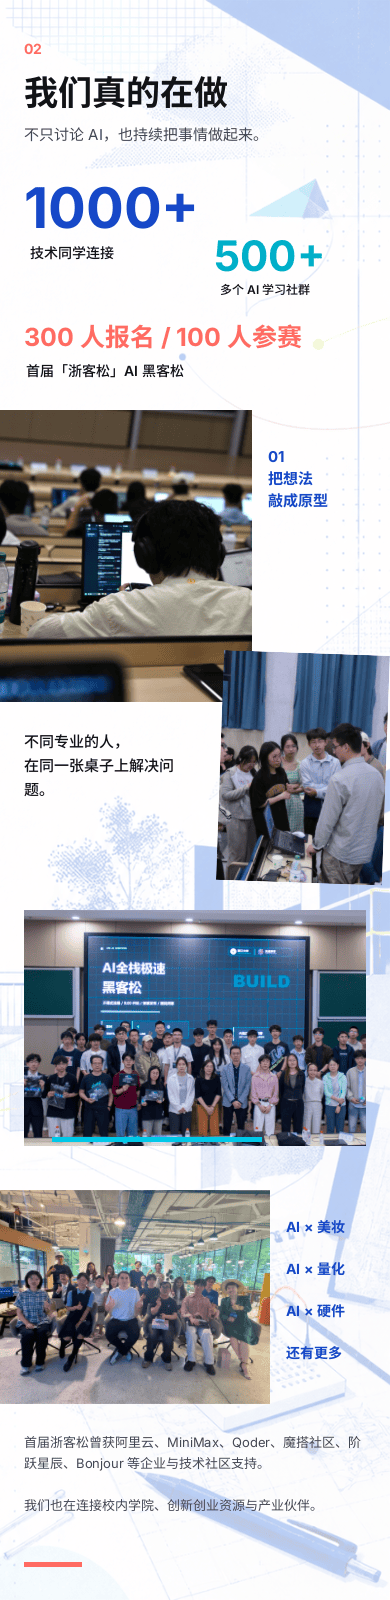
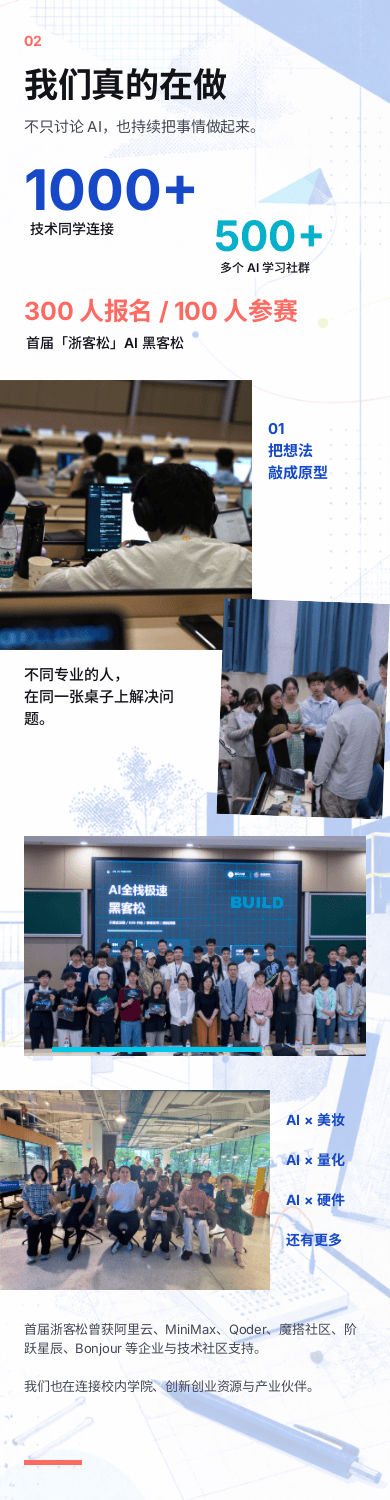
Add density-first WeChat layout workflow

diff --git a/scripts/workflow_quality.py b/scripts/workflow_quality.py
@@ -21,8 +21,31 @@ REQUIRED_VISUAL_CHECKS = {
     "editorial_rhythm",
     "mobile_legibility",
     "open_composition",
+    "information_density",
+    "background_family_coherence",
 }
 REQUIRED_SCREENSHOT_ROLES = {"hero", "chapter", "evidence", "complex-section", "cta"}
+ALLOWED_DENSITY_MODES = {"compact-editorial", "standard", "spacious-feature"}
+DENSITY_BANDS = {
+    "compact-editorial": {
+        "body_font_px": (15.0, 17.0),
+        "body_line_height_ratio": (1.45, 1.62),
+        "letter_spacing_px": (-0.2, 0.0),
+        "paragraph_gap_px": (8.0, 14.0),
+    },
+    "standard": {
+        "body_font_px": (15.0, 17.0),
+        "body_line_height_ratio": (1.50, 1.68),
+        "letter_spacing_px": (-0.1, 0.0),
+        "paragraph_gap_px": (10.0, 16.0),
+    },
+    "spacious-feature": {
+        "body_font_px": (16.0, 18.0),
+        "body_line_height_ratio": (1.55, 1.72),
+        "letter_spacing_px": (0.0, 0.1),
+        "paragraph_gap_px": (12.0, 20.0),
+    },
+}
 ALLOWED_COMPOSITION_ROLES = {"anchor", "motion", "connector", "punctuation"}
 GENERIC_VISUAL_SUBJECTS = {
     "ai",
@@ -172,6 +195,53 @@ def validate_visual_review(
                 errors.append(f"visual review screenshot is missing: {location}")
     if len(node_ids) < 5:
         errors.append("visual review requires at least 5 distinct Ardot node screenshots")
+    density = review.get("density")
+    if not isinstance(density, dict):
+        density = {}
+        errors.append("visual review density must be an object")
+    density_mode = density.get("mode")
+    if density_mode not in ALLOWED_DENSITY_MODES:
+        errors.append("visual review density.mode is invalid")
+        density_mode = "compact-editorial"
+    samples = density.get("samples")
+    sample_items = [item for item in samples if isinstance(item, dict)] if isinstance(samples, list) else []
+    density_node_ids: set[str] = set()
+    band = DENSITY_BANDS[density_mode]
+    for index, sample in enumerate(sample_items):
+        node_id = sample.get("node_id")
+        if not isinstance(node_id, str) or node_id not in node_ids:
+            errors.append(f"density sample {index} must reference a screenshot node_id")
+        else:
+            density_node_ids.add(node_id)
+        for metric, (minimum, maximum) in band.items():
+            value = sample.get(metric)
+            if not isinstance(value, (int, float)) or isinstance(value, bool):
+                errors.append(f"density sample {index} requires numeric {metric}")
+            elif not minimum <= float(value) <= maximum:
+                errors.append(
+                    f"density sample {index} {metric} must be between {minimum} and {maximum} for {density_mode}"
+                )
+        intentional = sample.get("intentional_whitespace") is True
+        occupancy = sample.get("content_occupancy_ratio")
+        occupancy_minimum = 0.45 if intentional else 0.68
+        if not isinstance(occupancy, (int, float)) or isinstance(occupancy, bool):
+            errors.append(f"density sample {index} requires numeric content_occupancy_ratio")
+        elif not occupancy_minimum <= float(occupancy) <= 0.90:
+            errors.append(
+                f"density sample {index} content_occupancy_ratio must be between {occupancy_minimum} and 0.9"
+            )
+        largest_empty = sample.get("largest_empty_region_ratio")
+        empty_maximum = 0.40 if intentional else 0.20
+        if not isinstance(largest_empty, (int, float)) or isinstance(largest_empty, bool):
+            errors.append(f"density sample {index} requires numeric largest_empty_region_ratio")
+        elif not 0 <= float(largest_empty) <= empty_maximum:
+            errors.append(
+                f"density sample {index} largest_empty_region_ratio must be at most {empty_maximum}"
+            )
+        if intentional and not sample.get("intentional_whitespace_reason"):
+            errors.append(f"density sample {index} intentional whitespace requires a reason")
+    if len(density_node_ids) < 5:
+        errors.append("visual review requires density samples for at least 5 distinct screenshot nodes")
     checks = review.get("checks")
     if not isinstance(checks, dict):
         checks = {}
@@ -189,6 +259,8 @@ def validate_visual_review(
         "screenshot_count": len(screenshot_items),
         "screenshot_roles": sorted(role for role in roles if role),
         "node_count": len(node_ids),
+        "density_mode": density_mode,
+        "density_sample_count": len(sample_items),
         "passed_checks": sorted(
             check for check in REQUIRED_VISUAL_CHECKS if checks.get(check) == "pass"
         ),

diff --git a/tests/test_workflow.py b/tests/test_workflow.py
@@ -177,6 +177,35 @@ class CompilerTests(unittest.TestCase):
             self.assertFalse((temp_path / "output" / "wechat.html").exists())
             self.assertIsNone(report["outputs"]["wechat"])
 
+    def test_low_information_density_blocks_final_check(self) -> None:
+        org_id = "zju-ocean-robot-association"
+        source = json.loads(
+            (ROOT / "examples" / "ocean-recruitment.json").read_text(encoding="utf-8")
+        )
+        review = json.loads(
+            (ROOT / "examples" / "ocean-recruitment-visual-review.json").read_text(encoding="utf-8")
+        )
+        review["density"]["samples"][1]["body_line_height_ratio"] = 1.82
+        review["density"]["samples"][1]["content_occupancy_ratio"] = 0.51
+        review["density"]["samples"][1]["largest_empty_region_ratio"] = 0.31
+        with tempfile.TemporaryDirectory() as temp:
+            temp_path = Path(temp)
+            spec = temp_path / "article.json"
+            review_path = temp_path / "visual-review.json"
+            source["visual_review_file"] = str(review_path)
+            spec.write_text(json.dumps(source, ensure_ascii=False), encoding="utf-8")
+            review_path.write_text(json.dumps(review, ensure_ascii=False), encoding="utf-8")
+            report = compile_article(
+                spec,
+                ROOT / "organizations" / org_id,
+                temp_path / "output",
+                check=True,
+            )
+            self.assertFalse(report["ok"])
+            self.assertTrue(any("body_line_height_ratio" in error for error in report["errors"]))
+            self.assertTrue(any("content_occupancy_ratio" in error for error in report["errors"]))
+            self.assertTrue(any("largest_empty_region_ratio" in error for error in report["errors"]))
+
     def test_metric_without_source_fails_final_check(self) -> None:
         org_id = "zju-ocean-robot-association"
         article = {
@@ -300,6 +329,18 @@ class ArdotManifestTests(unittest.TestCase):
         self.assertGreaterEqual(storyboard["composition_count"], 3)
         self.assertGreaterEqual(len(directions["directions"]), 2)
         self.assertTrue(directions["full_article_allowed"])
+
+    def test_storyboard_requires_density_intent_for_every_chapter(self) -> None:
+        source = json.loads(
+            (ROOT / "examples" / "ocean-recruitment.json").read_text(encoding="utf-8")
+        )
+        source["storyboard"]["chapters"][2].pop("density_intent")
+        with tempfile.TemporaryDirectory() as temp:
+            article = Path(temp) / "article.json"
+            article.write_text(json.dumps(source, ensure_ascii=False), encoding="utf-8")
+            storyboard = build_storyboard_plan(article)
+            self.assertFalse(storyboard["ready_for_visual_kit"])
+            self.assertTrue(any("density_intent" in item for item in storyboard["errors"]))
 
     def test_provisional_org_is_blocked_before_full_article(self) -> None:
         with tempfile.TemporaryDirectory() as temp:

diff --git a/scripts/orgs.py b/scripts/orgs.py
@@ -46,6 +46,7 @@ VISUAL_KIT_ROLES = {
     "inline-explainer",
     "closing-motif",
 }
+DENSITY_MODES = {"compact-editorial", "standard", "spacious-feature"}
 
 
 def read_json(path: Path) -> Any:
@@ -211,6 +212,18 @@ def validate_pack(pack_dir: Path) -> dict[str, Any]:
                 errors.append(f"approved visual calibration benchmark requires {field}")
         if not approved_routes:
             errors.append("approved visual calibration requires at least one approved route")
+        if calibration.get("density_mode") not in DENSITY_MODES:
+            errors.append("approved visual calibration requires a valid density_mode")
+        background_family = calibration.get("background_family")
+        if background_family is not None:
+            background_family = require_dict(
+                background_family,
+                "organization.visual.calibration.background_family",
+                errors,
+            )
+            for field in ("id", "strategy"):
+                if not isinstance(background_family.get(field), str) or not background_family.get(field, "").strip():
+                    errors.append(f"approved visual calibration background_family requires {field}")
     elif org.get("status") == "confirmed":
         warnings.append("confirmed organization lacks approved visual calibration; full article production is blocked")
 
@@ -441,6 +454,7 @@ def scaffold(org_id: str, name: str) -> dict[str, Any]:
         }],
         "calibration": {
             "status": "not-started", "approved_routes": [], "benchmark": None,
+            "density_mode": "compact-editorial", "background_family": None,
             "reviewed_at": None, "review_basis": [],
         },
     }

diff --git a/scripts/build_storyboard.py b/scripts/build_storyboard.py
@@ -37,7 +37,7 @@ def build_storyboard_plan(article_path: Path) -> dict[str, Any]:
             errors.append(f"duplicate storyboard chapter id: {chapter_id}")
         else:
             chapter_ids.add(chapter_id)
-        for field in ("label", "thesis", "composition", "visual_intent"):
+        for field in ("label", "thesis", "composition", "visual_intent", "density_intent"):
             if not isinstance(chapter.get(field), str) or not chapter.get(field, "").strip():
                 errors.append(f"storyboard chapter {chapter_id or index} requires {field}")
         composition = chapter.get("composition")

diff --git a/references/information-density.md b/references/information-density.md
@@ -1,0 +1,44 @@
+# 公众号信息密度与连贯底图
+
+信息密度不是“多塞文字”，而是让正文、图片、小组件和留白在手机纵向空间内持续发生关系。先压缩无意义间隔，再决定是否删字；不要用卡片、边框或浅色块填空。
+
+## 密度模式
+
+| 模式 | 适用场景 | 正文字号 | 正文行高 | 中文字距 | 段距 | 章内主间隔 |
+|---|---|---:|---:|---:|---:|---:|
+| `compact-editorial` | 招新、活动、教程、信息型长文；默认 | 15–17 px | 1.45–1.62 | -0.2–0 px | 8–14 px | 24–40 px |
+| `standard` | 品牌故事、人物、项目展示 | 15–17 px | 1.50–1.68 | -0.1–0 px | 10–16 px | 28–48 px |
+| `spacious-feature` | Hero、章节转场、结尾；不能作为整篇默认 | 16–18 px | 1.55–1.72 | 0–0.1 px | 12–20 px | 40–64 px |
+
+标题行高通常为 1.05–1.20，短标签为 1.25–1.45。中文标题可以使用 -0.4–0 px 字距。若组织字体本身较宽，优先收紧字距和区块间隔，不把正文字号压到 15 px 以下。
+
+## 390 px 纵向占用
+
+- 普通正文、列表、角色和步骤区：有效内容占本区高度 68%–90%。
+- 最大无意空洞不超过本区高度 20%。Hero、全宽转场和结尾的有意留白必须在 `density_intent` 中声明。
+- 图片与说明间隔 8–16 px；连续列表项中心间距通常 72–104 px。
+- 章节上/下呼吸区通常 28–56 px。若一屏只出现一个短句，必须由主图、路径或转场承担视觉信息。
+- 收紧顺序：先删重复空白，再压主间隔和段距，再调行高与字距，最后才改字号或删正文。
+
+## AI 连贯底图
+
+1. 在组织视觉校准阶段生成一张 master 底图和 1–3 张 companion 变体，登记统一 family ID、提示词摘要、色彩、材质、光线和禁用项。
+2. 伴生图必须继承同一空间逻辑、笔触和调色，不只是“颜色差不多”。文章中通过裁切、透明度、局部放大和前后景关系制造变化。
+3. 裸底图和叠字小样都要审核。正文区域保持纯色或近纯色复制安全区，插图运动线可以穿过转场，但不能穿过长段正文。
+4. 真实照片承担活动、人物和成果证据。AI 底图负责气氛与连续性，不能冒充现场，也不能包含生成中文、Logo、二维码或合作方标志。
+5. 不逐章节随机生图；若新章节需要不同叙事场景，先扩展同一 family，再放入全文。
+
+## 截图验收记录
+
+`visual-review.json` 至少记录 Hero、章节、证据、复杂区块、CTA 五个节点。每个 `density.samples[]` 写入：
+
+- `node_id`
+- `body_font_px`
+- `body_line_height_ratio`
+- `letter_spacing_px`
+- `paragraph_gap_px`
+- `content_occupancy_ratio`
+- `largest_empty_region_ratio`
+- 可选 `intentional_whitespace: true` 与原因
+
+数据必须来自实际 Ardot 截图和节点属性。校验脚本负责范围检查，截图负责证明这些数字对应真实版面。

diff --git a/SKILL.md b/SKILL.md
@@ -115,7 +115,8 @@ For the complete operator guide, commands, file locations, and migration example
 - Keep closed boxes at or below 20% of content sections, never place two boxed sections consecutively, and include at least three asymmetric or edge-breaking visual moments.
 - Judge openness, rhythm, clipping, scale variation, photo/illustration harmony, mobile legibility, and subject relevance from real Ardot screenshots. Never let article JSON self-certify its own visual quality.
 - Vary long-article rhythm through open text, generated micro illustrations, continuous paths, full-width transitions, image breaks, and quiet whitespace. Never solve missing visual rhythm by adding cards.
-- Optimize for phone reading: short paragraphs, clear hierarchy, 15–17 px body text, generous line height, and visible swipe affordance.
+- Optimize for phone reading with an explicit density mode. Default to `compact-editorial`: 15–17 px body text, 1.45–1.62 body line-height, -0.2–0 px Chinese letter spacing, 8–14 px paragraph spacing, and 24–40 px major intra-section gaps. Do not use “generous whitespace” as an excuse for low information density.
+- Before full layout, calibrate any AI background as one master artwork plus 1–3 same-family companion crops/variants. Keep copy-safe areas near-solid, vary crop and opacity across chapters, and never generate unrelated backgrounds chapter by chapter.
 - Record selected organization ID, route ID, component IDs, source IDs, and unresolved warnings in the compile report.
 
 ## Authoring and delivery
@@ -148,11 +149,14 @@ Treat any of the following as blocking for final delivery:
 - missing or incomplete narrative storyboard;
 - a visual-kit item without grounded source copy, a specific subject/action, or a chapter/composition role;
 - missing or failing screenshot-backed `visual_review_file` before final transport;
+- missing `information_density` / `background_family_coherence` screenshot checks, fewer than five density samples, body line-height outside the selected mode, or an accidental empty region larger than 20% of a sampled section;
 - a metric without a source ID;
 - a quote without attribution or source ID;
 - mismatched organization IDs across registries;
 - generated or unverified QR/logo assets;
 - scripts, forms, or non-inline stylesheet dependencies in `wechat.html`;
 - `compile-report.json` with `ok: false`.
+
+Detailed density bands and AI-background continuity rules are in [references/information-density.md](references/information-density.md).
 
 Read [references/qa.md](references/qa.md) before a final draft handoff or when diagnosing a failed check.

diff --git a/references/qa.md b/references/qa.md
@@ -22,13 +22,16 @@
 - 透明图经过 Alpha 文件检查；预览棋盘格不能当作透明证明。
 - Inspect the native Ardot article and its high-impact component screenshots at 390 px before creating transport files.
 - Body type remains readable and paragraphs are not dense walls of text.
+- Default body typography is checked against the selected density mode; `compact-editorial` uses 15–17 px type, 1.45–1.62 line-height, -0.2–0 px Chinese tracking, and 8–14 px paragraph spacing.
+- Five screenshot-backed density samples record content occupancy and largest empty region; ordinary sections target 68%–90% occupancy and at most 20% accidental empty space.
+- AI backgrounds, when used, belong to one recorded family with a master and companion variants; copy remains on near-solid safe zones and chapters do not switch to unrelated generated styles.
 - Covers and transitions have intentional overlay space.
 - Galleries show a visible next-card edge and a swipe cue.
 - Closed boxes are at most 20% of content sections and never occur consecutively.
 - At least three moments visibly break symmetry or enter from the text edge.
 - Long articles vary section rhythm through open text, micro illustrations, continuous paths, image breaks, full-width transitions, and quiet whitespace.
 - Every semantic block does not own a background, border, radius, or shadow.
-- A separate `visual_review_file` records five distinct Ardot node screenshots and all ten required visual checks; article JSON cannot self-certify the design.
+- A separate `visual_review_file` records five distinct Ardot node screenshots, density samples, and all twelve required visual checks; article JSON cannot self-certify the design.
 - Images have useful alt text and important subjects remain legible on a phone.
 - No clipped text, overflow, accidental large empty region, or component instance with the wrong organization mode remains.
 - `index.html` may be used only to debug the final transport adapter; it does not replace Ardot visual review.

diff --git a/references/使用说明.md b/references/使用说明.md
@@ -59,7 +59,7 @@ organizations/new-account-id/
 1. 收集官网、公众号介绍、代表文章、Logo、活动照片与品牌规范。
 2. 在 `sources.json` 中记录来源和可核验事实。
 3. 在 `organization.json` 中确认受众、内容支柱、语气、视觉色彩、视觉母题和文章类型。
-4. 为每个文章类型提出 2–3 条视觉路线，先在 Ardot 做 Hero、章节、照片编排和微型插图小样，不直接做全文。
+4. 为每个文章类型提出 2–3 条视觉路线，先在 Ardot 做 Hero、章节、照片编排、微型插图和信息密度小样，不直接做全文。若使用 AI 底图，先做一个母版与 1–3 个同系列变体，不能逐章随机生成。
 
 ```bash
 python3 scripts/build_visual_directions.py \
@@ -207,8 +207,9 @@ python3 scripts/build_ardot_manifest.py article.json \
 5. 用插图切入文字边缘、章节转场、连续路径和 CTA 落点，不能用方框替代视觉节奏。
 6. 按叙事章节装配，不按“一个 block = 一个带外框组件”机械堆叠。
 7. 分别截取 Hero、章节、证据、复杂区块和 CTA 五个不同 Ardot 节点，记录在独立 `visual-review.json`。
-8. 逐项检查主体相关性、风格一致、装饰裁切、尺度变化、照片/插图和谐、泛 AI 装饰、无意义标签、编辑节奏、手机可读性与开放构图。
-9. 视觉确认后将 Ardot 保留为唯一可编辑源。
+8. 逐项检查主体相关性、风格一致、装饰裁切、尺度变化、照片/插图和谐、泛 AI 装饰、无意义标签、编辑节奏、手机可读性、开放构图、信息密度与底图家族一致性。
+9. 为五个截图节点记录密度样本。默认 `compact-editorial`：正文 15–17 px、行高 1.45–1.62、中文字距 -0.2–0 px、段距 8–14 px、普通正文区内容占用率 68%–90%、最大无意空洞不超过 20%。
+10. 视觉确认后将 Ardot 保留为唯一可编辑源。
 
 详细规则见 `references/ardot-workflow.md`。
 

diff --git a/references/ardot-workflow.md b/references/ardot-workflow.md
@@ -58,7 +58,7 @@ WeChat adapter     → 图片上传、内联样式、草稿创建
 9. 每次创建顶层 Frame 前定位空白区域；每批编辑不超过 25 个操作。
 10. 分段截图检查 Hero、章节、观点、步骤、案例和 CTA；超过 2000 px 的长文不要一次截图。
 11. 修正溢出、断行、空洞、方框化和组织气质偏差。
-12. 为 Hero、章节、证据、复杂区块和 CTA 建立独立截图验收 JSON，运行 `build_visual_review.py`。五类节点与十项检查全部通过才投递。
+12. 为 Hero、章节、证据、复杂区块和 CTA 建立独立截图验收 JSON，记录 390 px 下的字号、行高、字距、段距、内容占用率与最大空洞比例，运行 `build_visual_review.py`。五类节点、密度样本与十二项检查全部通过才投递。
 
 ## 新公众号迁移
 
@@ -81,7 +81,9 @@ WeChat adapter     → 图片上传、内联样式、草稿创建
 - 卡片只用于可独立比较的信息；步骤优先用旅程线、协议表或连续流程。
 - 每篇至少有三次不对称、越界或边缘切入的视觉时刻；每个区块默认无背景、无描边、无圆角容器。
 - 组织差异至少体现在构图、留白、字体尺度、边角和图片策略中的三项，而不只是换色。
-- 所有正文按 390 px 检查；正文通常为 15–17 px，行距留足手机阅读。
+- 所有正文按 390 px 检查；默认 `compact-editorial` 为 15–17 px、1.45–1.62 行高、-0.2–0 px 中文字距和 8–14 px 段距。正文不能松散漂浮，也不能挤成文字墙。
+
+若使用 AI 底图，视觉校准阶段先确定一个 master 与 1–3 个 companion 变体。全文只改变裁切、透明度和局部构图，不逐章随机生图；真实照片仍是事实和活动证据的主视觉。
 
 详细验收见 [organic-layout.md](organic-layout.md)。
 

diff --git a/references/visual-review.md b/references/visual-review.md
@@ -8,12 +8,12 @@
 - `complex-section`（步骤、角色、流程或复杂图文）；
 - `cta`。
 
-独立 review JSON 需要 Ardot 文件、页面、文章根节点，每张截图的节点 ID 和本地文件/可查 URL。以下检查必须全部为 `pass`：
+独立 review JSON 需要 Ardot 文件、页面、文章根节点，每张截图的节点 ID 和本地文件/可查 URL。还要为这五个节点记录 `density.mode` 与密度样本，字段见 [information-density.md](information-density.md)。以下检查必须全部为 `pass`：
 
-`subject_relevance`, `style_coherence`, `no_clipped_ornaments`, `scale_variation`, `photo_illustration_harmony`, `no_generic_ai_decoration`, `no_unexplained_labels`, `editorial_rhythm`, `mobile_legibility`, `open_composition`.
+`subject_relevance`, `style_coherence`, `no_clipped_ornaments`, `scale_variation`, `photo_illustration_harmony`, `no_generic_ai_decoration`, `no_unexplained_labels`, `editorial_rhythm`, `mobile_legibility`, `open_composition`, `information_density`, `background_family_coherence`.
 
 ```bash
 python3 scripts/build_visual_review.py visual-review.json --article article.json
 ```
 
-把 review 文件路径写入 `article.visual_review_file`。`compile_wechat.py --check` 会重新校验文章 ID、组织 ID、5 类节点证据与全部视觉项；缺一项就不生成可交付结果。
+把 review 文件路径写入 `article.visual_review_file`。`compile_wechat.py --check` 会重新校验文章 ID、组织 ID、5 类节点证据、密度范围与全部视觉项；缺一项就不生成可交付结果。

diff --git a/references/visual-calibration.md b/references/visual-calibration.md
@@ -6,10 +6,11 @@
 
 1. 完成组织调研，保持 `status: provisional`。
 2. 运行 `build_visual_directions.py`，得到 2–3 条材质、构图和图像策略明显不同的方向。
-3. 每条方向在 Ardot 只制作四个小样：Hero、章节、真实照片编排、微型插图。
-4. 比较标题空间、编辑节奏、组织识别度、图文关系与手机阅读。
-5. 用户批准后，在 `organization.visual.calibration` 写入 `approved_routes`、Ardot `file_url`、`page_name`、`article_node_id` 和复核日期。
-6. 组织资料同时确认后，才把 `organization.status` 改为 `confirmed`。
+3. 每条方向在 Ardot 制作五个小样：Hero、章节、真实照片编排、微型插图、信息密度条。密度条必须包含一段正文、一组列表/步骤和一处图文衔接。
+4. 若路线使用 AI 底图，先生成一个母版和 1–3 个同系列伴生变体；对比裸底图与叠字后的 390 px 小样，确认复制安全区、明暗连续和章节间风格一致。
+5. 比较标题空间、编辑节奏、组织识别度、图文关系、信息密度与手机阅读。
+6. 用户批准后，在 `organization.visual.calibration` 写入 `approved_routes`、Ardot `file_url`、`page_name`、`article_node_id`、默认 `density_mode`、底图 family ID 和复核日期。
+7. 组织资料同时确认后，才把 `organization.status` 改为 `confirmed`。
 
 `calibration.status != approved`、当前 route 不在 `approved_routes` 或组织仍为 `provisional` 时，全文制作必须停止。
 

diff --git a/references/article-schema.md b/references/article-schema.md
@@ -20,6 +20,7 @@ The compiler accepts UTF-8 JSON:
         "thesis": "One reader-facing idea",
         "composition": "image-led-opening",
         "visual_intent": "A concrete subject enters from open space",
+        "density_intent": "Intentional hero pause; body sections return to compact-editorial density",
         "block_indices": [0]
       }
     ]
@@ -80,7 +81,7 @@ python3 scripts/build_ardot_manifest.py article.json \
   --output output/<organization-id>/<slug>/ardot-manifest.json
 ```
 
-After assembly, create a separate screenshot-backed visual review and store its path in `visual_review_file`. It must cover five distinct Ardot nodes and pass every check in [visual-review.md](visual-review.md). A Boolean or count written inside the article cannot self-approve the design.
+Every storyboard chapter must declare `density_intent`; ordinary chapters default to `compact-editorial`, while intentional open space is reserved for Hero, transition, or ending moments. After assembly, create a separate screenshot-backed visual review and store its path in `visual_review_file`. It must cover five distinct Ardot nodes, include five density samples, and pass every check in [visual-review.md](visual-review.md). A Boolean or count written inside the article cannot self-approve the design.
 
 ## Supported blocks
 
